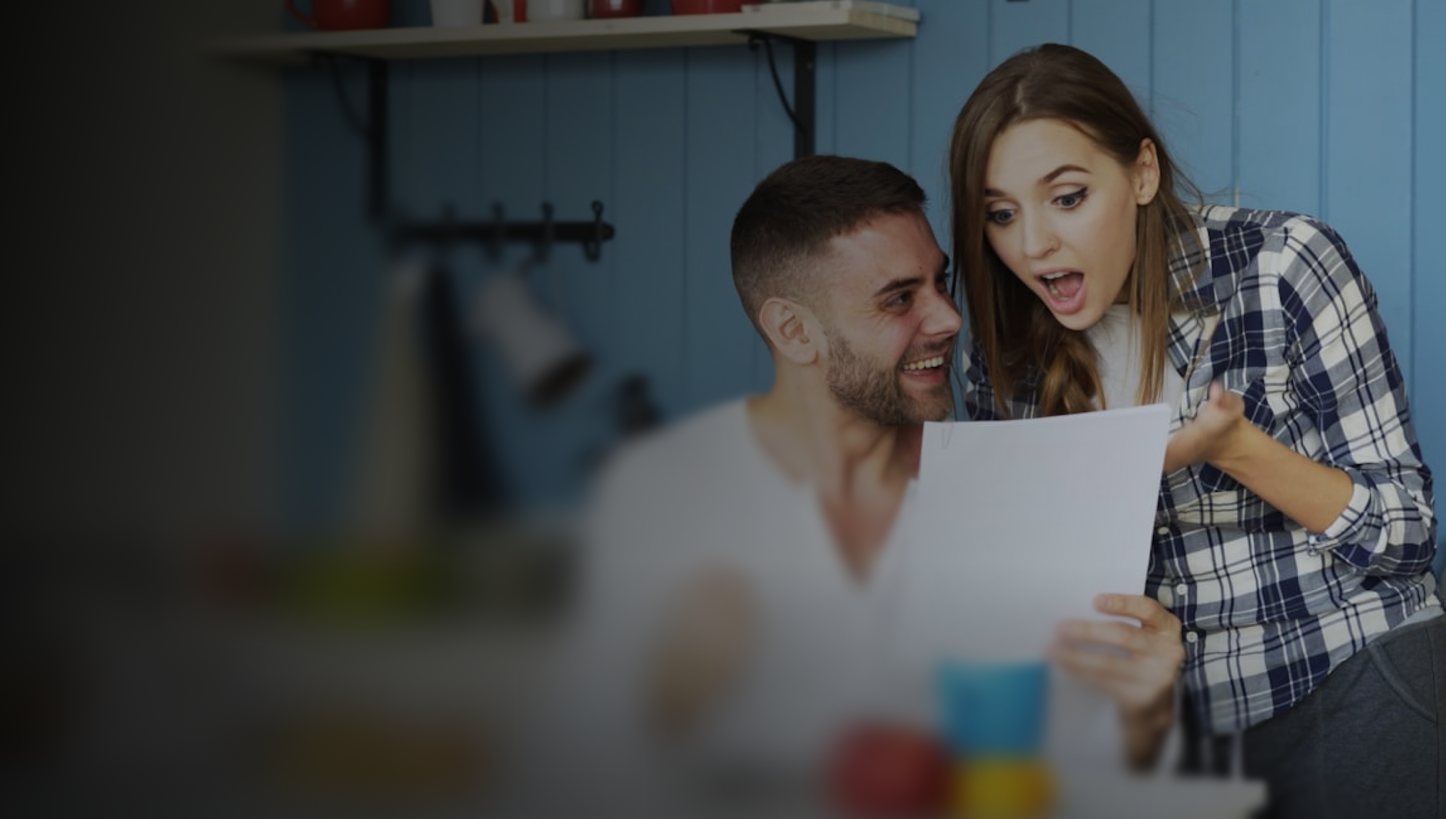
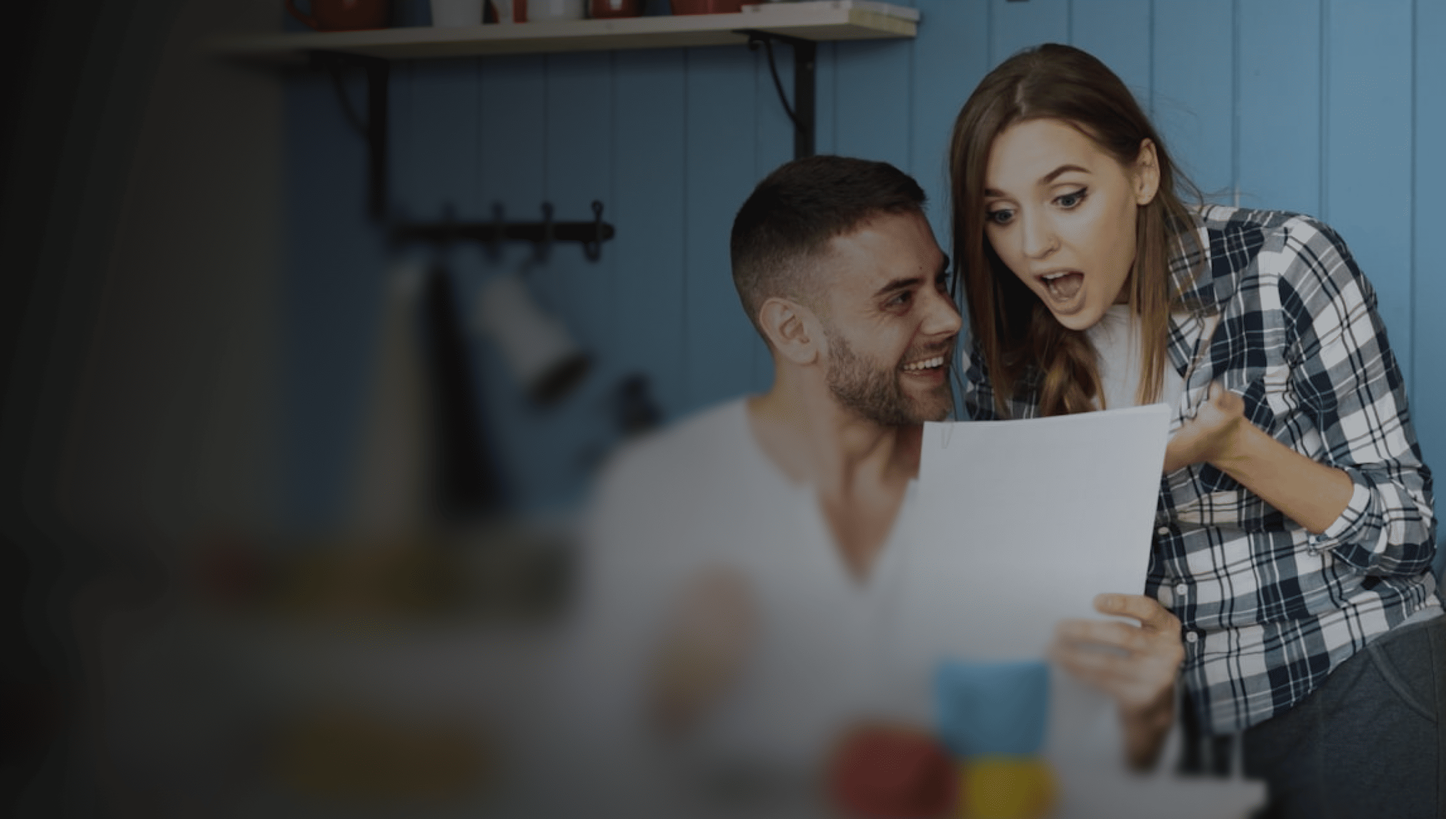
Fix: optimized photos

diff --git a/src/app/faqs/page.tsx b/src/app/faqs/page.tsx
@@ -1,8 +1,11 @@
 "use client";
 
+// 1. Імпортуйте 'Image'
 import { useState } from 'react';
+import Image from 'next/image';
 import MainButton from "@/components/ui/MainButton";
 
+// ... (код faqData залишається без змін) ...
 const faqData = [
     {
         question: "What is CASHBATE?",
@@ -45,14 +48,13 @@ const faqData = [
         answer: "A Comparative Market Analysis (CMA) report is an estimate of a home&apos;s value based on recently sold, similar properties in the immediate area. It&apos;s a key tool for setting a competitive and realistic listing price."
     },
 ];
-
+// ... (код AccordionItem залишається без змін) ...
 interface AccordionItemProps {
     question: string;
     answer: React.ReactNode;
     isOpen: boolean;
     onClick: () => void;
 }
-
 const AccordionItem = ({ question, answer, isOpen, onClick }: AccordionItemProps) => {
     return (
         <div className="border-b border-gray-200 py-6">
@@ -86,16 +88,16 @@ const AccordionItem = ({ question, answer, isOpen, onClick }: AccordionItemProps
 
 // Основний компонент сторінки
 export default function FaqsPage() {
-
-    // !!! ЗМІНА 1: Стан тепер зберігає МАСИВ індексів. [0] означає, що перший елемент відкритий за замовчуванням
     const [openIndexes, setOpenIndexes] = useState<number[]>([0]);
 
-    // !!! ЗМІНА 2: Нова логіка для додавання/видалення індексів з масиву
+    // 2. Додаємо стан для відстеження завантаження фону
+    const [isLoaded, setIsLoaded] = useState(false);
+
     const handleToggle = (index: number) => {
         setOpenIndexes((prevIndexes) =>
             prevIndexes.includes(index)
-                ? prevIndexes.filter((i) => i !== index) // Видалити, якщо індекс вже є (закрити)
-                : [...prevIndexes, index] // Додати, якщо індексу немає (відкрити)
+                ? prevIndexes.filter((i) => i !== index)
+                : [...prevIndexes, index]
         );
     };
 
@@ -103,10 +105,22 @@ export default function FaqsPage() {
         <div>
             <main>
                 {/* === Hero Section === */}
-                <section className="relative py-24 sm:py-32 overflow-hidden" style={{
-                    backgroundImage: `url('/faq-bg.png')`,
-                    backgroundSize: 'cover',
-                    backgroundPosition: 'bottom'}}>
+                {/* 3. Прибираємо 'style' з 'section' */}
+                <section className="relative py-24 sm:py-32 overflow-hidden">
+
+                    {/* 4. Додаємо компонент <Image> для фону */}
+                    <Image
+                        src="/faq-bg.png"
+                        alt="FAQ page background"
+                        fill
+                        priority
+                        className={`object-cover object-bottom transition-opacity duration-1000 ease-in-out ${
+                            isLoaded ? 'opacity-100' : 'opacity-0'
+                        }`}
+                        onLoad={() => setIsLoaded(true)}
+                    />
+
+                    {/* Контент секції (залишається без змін) */}
                     <div className="max-w-7xl mx-auto px-4 sm:px-6 lg:px-8 relative z-10" >
                         <div className="max-w-xl">
                             <h1 className="text-4xl sm:text-5xl lg:text-6xl font-semibold text-neutral-700 tracking-tight">
@@ -126,10 +140,7 @@ export default function FaqsPage() {
                                     key={index}
                                     question={faq.question}
                                     answer={faq.answer}
-
-                                    // !!! ЗМІНА 3: Перевіряємо, чи індекс є в масиві
                                     isOpen={openIndexes.includes(index)}
-
                                     onClick={() => handleToggle(index)}
                                 />
                             ))}

diff --git a/src/components/home/WhyChoose.tsx b/src/components/home/WhyChoose.tsx
@@ -8,22 +8,31 @@ interface FeatureCardProps {
     description: string;
 }
 
+// === КОМПОНЕНТ КАРТКИ (FeatureCard) ===
 const FeatureCard = ({ icon, title, description }: FeatureCardProps) => (
-    <div className="bg-white px-6 sm:px-8 py-14 rounded-3xl flex flex-col items-center text-center h-full shadow-sm hover:shadow-md transition-all">
+
+    // !!! ЗМІНЕНО:
+    // 1. Прибрано тіні: 'shadow-sm', 'hover:shadow-md', 'transition-all'
+    // 2. Зменшено вертикальні відступи (padding) на моб: 'py-14' -> 'py-8 sm:py-12'
+    // 3. 'px-6 sm:px-8' -> 'px-6' (однаковий відступ по горизонталі)
+    <div className="bg-white px-6 py-8 sm:py-12 rounded-3xl flex flex-col items-center text-center h-full">
         {/* Icon */}
         <div className="mb-6 flex justify-center items-center">
             <Image
                 src={icon}
                 alt={`${title} icon`}
-                width={80}
+                width={80} // (Зберігаємо 80, className керуватиме розміром)
                 height={80}
-                className="w-20 h-20 object-contain"
+
+                // !!! ЗМІНЕНО: Зменшено розмір іконки на моб: 'w-20 h-20' -> 'w-16 h-16 sm:w-20 sm:h-20'
+                className="w-16 h-16 sm:w-20 sm:h-20 object-contain"
             />
         </div>
 
         {/* Content */}
         <div className="max-w-[250px]">
-            <h3 className="text-2xl font-semibold text-gray-800 mb-2">
+            {/* !!! ЗМІНЕНО: Зменшено розмір заголовка на моб: 'text-2xl' -> 'text-xl sm:text-2xl' */}
+            <h3 className="text-xl sm:text-2xl font-semibold text-gray-800 mb-2">
                 {title}
             </h3>
             <p className="text-gray-600 text-base leading-relaxed">
@@ -33,6 +42,8 @@ const FeatureCard = ({ icon, title, description }: FeatureCardProps) => (
     </div>
 );
 
+
+// === ОСНОВНИЙ КОМПОНЕНТ СЕКЦІЇ ===
 const WhyChooseCashbateSection = () => {
     const features = [
         {
@@ -58,13 +69,16 @@ const WhyChooseCashbateSection = () => {
     ];
 
     return (
-        <section className="py-20 antialiased max-w-7xl mx-auto px-4">
+        // !!! ЗМІНЕНО: Зменшено відступи секції на моб: 'py-20' -> 'py-16 sm:py-20'
+        <section className="py-16 sm:py-20 antialiased max-w-7xl mx-auto px-4">
             <div>
-                <h2 className="text-4xl sm:text-5xl font-semibold text-neutral-800 mb-12 lg:mb-16 leading-tight text-center">
+                {/* !!! ЗМІНЕНО: Зменшено заголовок секції на моб: 'text-4xl sm:text-5xl' -> 'text-3xl sm:text-5xl' */}
+                <h2 className="text-3xl sm:text-5xl font-semibold text-neutral-800 mb-12 lg:mb-16 leading-tight text-center">
                     Why Home Sellers <br className="sm:hidden" /> Choose CASHBATE
                 </h2>
 
-                <div className="grid grid-cols-1 gap-8 md:grid-cols-2 lg:grid-cols-4">
+                {/* !!! ЗМІНЕНО: Зменшено 'gap-8' -> 'gap-6 sm:gap-8' */}
+                <div className="grid grid-cols-1 gap-6 sm:gap-8 md:grid-cols-2 lg:grid-cols-4">
                     {features.map((feature, index) => (
                         <FeatureCard
                             key={index}
